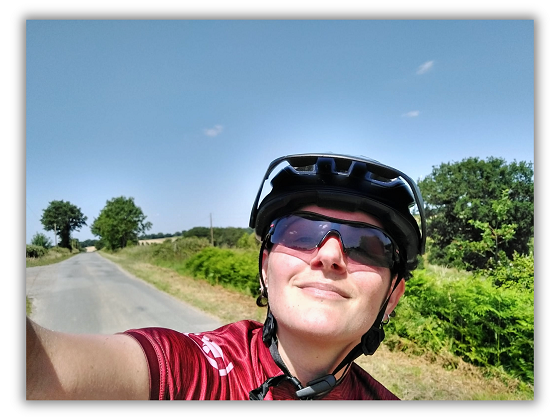
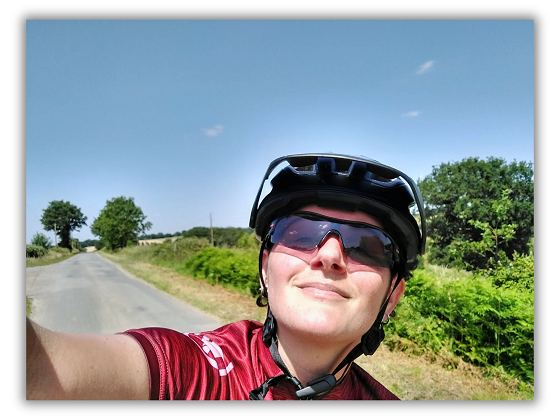
perf

diff --git a/index.html b/index.html
@@ -25,14 +25,37 @@
   <meta name="theme-color" content="#482664">
   <meta name="robots" content="index, follow">
  
-  <link rel="stylesheet" href="leaflet.css" />
-  <link rel="stylesheet" href="style.css" />
+  <!-- Polices : préconnexion + feuille dédiée (au lieu du @import imbriqué dans style.css) -->
+  <link rel="preconnect" href="https://fonts.googleapis.com">
+  <link rel="preconnect" href="https://fonts.gstatic.com" crossorigin>
+  <link rel="stylesheet" href="https://fonts.googleapis.com/css2?family=Inter:wght@300;400;500;600;700;800;900&display=swap">
+
+  <!-- CSS critique (nav + hero) inline pour un premier affichage immédiat -->
+  <style>
+    :root{--violet:#5c2e7a;--lilas:#b8a0c8;--lilas-clair:#e8d0f0;--lilas-pale:#f5ebf9;--blanc:#fff;--texte:#1a0a2e;--gris:#2a1040}
+    *{margin:0;padding:0;box-sizing:border-box}
+    body{font-family:'Inter',sans-serif;background:var(--blanc);color:var(--texte);font-size:1.05rem;line-height:1.7;font-weight:400}
+    nav{position:sticky;top:0;z-index:100;background:var(--blanc);border-bottom:1px solid var(--lilas-clair);display:flex;align-items:center;justify-content:space-between;padding:.5rem 2rem}
+    .nav-logo{display:flex;align-items:center;gap:clamp(.4rem,2vw,.7rem);text-decoration:none}
+    .nav-logo-svg-wrap{background:var(--blanc);border-radius:10px;box-shadow:0 1px 6px rgba(76,20,132,.13);padding:clamp(3px,1vw,4px) clamp(4px,1.5vw,6px);display:flex;align-items:center;justify-content:center;flex-shrink:0}
+    .hero{background:var(--blanc);padding:1.2rem 1.4rem;display:flex;flex-direction:column;align-items:center;border-radius:16px;max-width:900px;margin:1.2rem auto 0;box-shadow:0 8px 32px rgba(72,38,100,.18);position:relative;border:1.5px solid var(--lilas-clair)}
+    .hero-logo-wrap{display:flex;justify-content:center;margin:0 auto .8rem;padding:.7rem .7rem .3rem;overflow:hidden;max-width:100%;width:100%}
+    .hero-logo-wrap img{height:110px;width:auto;max-width:100%;display:block}
+    .hero-text{display:flex;flex-direction:column;align-items:center;gap:.6rem;text-align:center}
+    .hero-line1{font-family:'Monitorica','Inter',sans-serif;font-size:clamp(1rem,2vw,1.2rem);font-weight:400;color:var(--texte);text-align:center;letter-spacing:.01em;margin:0 0 .25rem;line-height:1}
+    .btn-primary{display:inline-block;background:var(--lilas-clair);color:var(--violet);padding:clamp(.5rem,2vw,.6rem) clamp(.7rem,3vw,.9rem);border-radius:10px;text-decoration:none;font-weight:600;font-size:clamp(.85rem,3vw,1rem);white-space:nowrap;border:0}
+  </style>
+
+  <!-- CSS principal chargé de façon non-bloquante -->
+  <link rel="preload" href="style.css" as="style" onload="this.onload=null;this.rel='stylesheet'">
+  <noscript><link rel="stylesheet" href="style.css"></noscript>
+  <!-- leaflet.css n'est plus chargé ici : injecté uniquement quand la carte des zones approche à l'écran (voir script.js) -->
   <link rel="icon" type="image/x-icon" href="favicon.ico">
 <link rel="icon" type="image/png" sizes="32x32" href="favicon-32x32.png">
 <link rel="icon" type="image/png" sizes="16x16" href="favicon-16x16.png">
 <link rel="apple-touch-icon" sizes="180x180" href="apple-touch-icon.png">
 <link rel="manifest" href="site.webmanifest">
-  <script src="leaflet.js" defer></script>
+  <!-- leaflet.js n'est plus chargé ici : injecté uniquement quand la carte des zones approche à l'écran (voir script.js) -->
   <script src="script.js" defer></script>
   <title> La clé universElle — Serrurière & Mécanicienne Vélo à Toulouse</title>
 
@@ -65,7 +88,7 @@
   <nav id="main-nav">
     <button class="nav-logo" onclick="openLogoStory()" aria-label="Découvrir l'histoire du logo" type="button">
       <div class="nav-logo-svg-wrap"><img src="LOGO_seulpunchy.svg" alt="Logo La clé universElle"
-          style="height:48px;width:auto;display:block;"></div>
+          width="49" height="48" style="height:48px;width:auto;display:block;"></div>
     </button>
     <ul class="nav-links">
      
@@ -126,7 +149,7 @@
     <div class="hero" aria-label="Présentation">
       <div class="hero-logo-wrap">
         <img src="Logocompletcentre.svg" alt="La clé universElle"
-          style="height:80%;width:400px;display:block;">
+          width="400" height="233" style="height:80%;width:400px;display:block;">
       </div>
       <div class="hero-text">
         <p class="hero-line1">Artisane multi-services, interventions à domicile · Toulouse</p>
@@ -306,7 +329,10 @@
         <div class="apropos-content">
             <!-- Conteneur pour l'image -->
             <div class="apropos-image">
-                <img src="velomoi.jpg" alt="Photo d'Elena">
+                <picture>
+                    <source srcset="velomoi.webp" type="image/webp">
+                    <img src="velomoi.jpg" alt="Photo d'Elena" width="560" height="420" loading="lazy" decoding="async">
+                </picture>
             </div>
             <!-- Conteneur pour le texte -->
             <div class="apropos-text">
@@ -414,7 +440,7 @@
   <div class="logo-overlay" id="logo-overlay" onclick="closeLogoStory(event)">
     <div class="logo-overlay-inner">
       <div class="logo-overlay-logo"><img src="LOGO_seulpunchy.svg"
-          alt="Logo Elena " La clé universElle
+          alt="Logo Elena - La clé universElle" width="73" height="72"
           style="height:72px;width:auto;display:block;"></div>
       <button class="logo-overlay-close" onclick="closeLogoStory()" aria-label="Fermer">✕</button>
       <h3>Pourquoi ce logo ?</h3>

diff --git a/script.js b/script.js
@@ -199,10 +199,44 @@ function initMap() {
   L.marker([centerLat, centerLng], { icon }).addTo(map);
 }
 
-// Initialise la carte quand la page est chargée
+// =============================================
+// CHARGEMENT PARESSEUX DE LEAFLET (carte + CSS ~160 Ko)
+// Ne charge leaflet.css / leaflet.js que quand la section
+// "Zones" approche du viewport, au lieu de bloquer le rendu initial.
+// =============================================
+
+function loadLeafletAndInitMap() {
+  if (window.__leafletLoading) return;
+  window.__leafletLoading = true;
+
+  const cssLink = document.createElement('link');
+  cssLink.rel = 'stylesheet';
+  cssLink.href = 'leaflet.css';
+  document.head.appendChild(cssLink);
+
+  const script = document.createElement('script');
+  script.src = 'leaflet.js';
+  script.onload = initMap;
+  document.body.appendChild(script);
+}
+
 document.addEventListener('DOMContentLoaded', () => {
-  if (document.getElementById('map-zones')) {
-    initMap();
+  const mapEl = document.getElementById('map-zones');
+  if (!mapEl) return;
+
+  if ('IntersectionObserver' in window) {
+    const observer = new IntersectionObserver((entries) => {
+      entries.forEach(entry => {
+        if (entry.isIntersecting) {
+          loadLeafletAndInitMap();
+          observer.disconnect();
+        }
+      });
+    }, { rootMargin: '400px 0px' }); // démarre le chargement un peu avant que la carte soit visible
+    observer.observe(mapEl);
+  } else {
+    // Navigateur sans IntersectionObserver : on charge normalement
+    loadLeafletAndInitMap();
   }
 });
 

diff --git a/style.css b/style.css
@@ -1,4 +1,4 @@
-@import url('https://fonts.googleapis.com/css2?family=Inter:wght@300;400;500;600;700;800;900&display=swap');
+/* Police Inter chargée via <link> dans le <head> d'index.html (plus rapide qu'un @import imbriqué) */
 
 @font-face {
     font-family: 'Monitorica';
